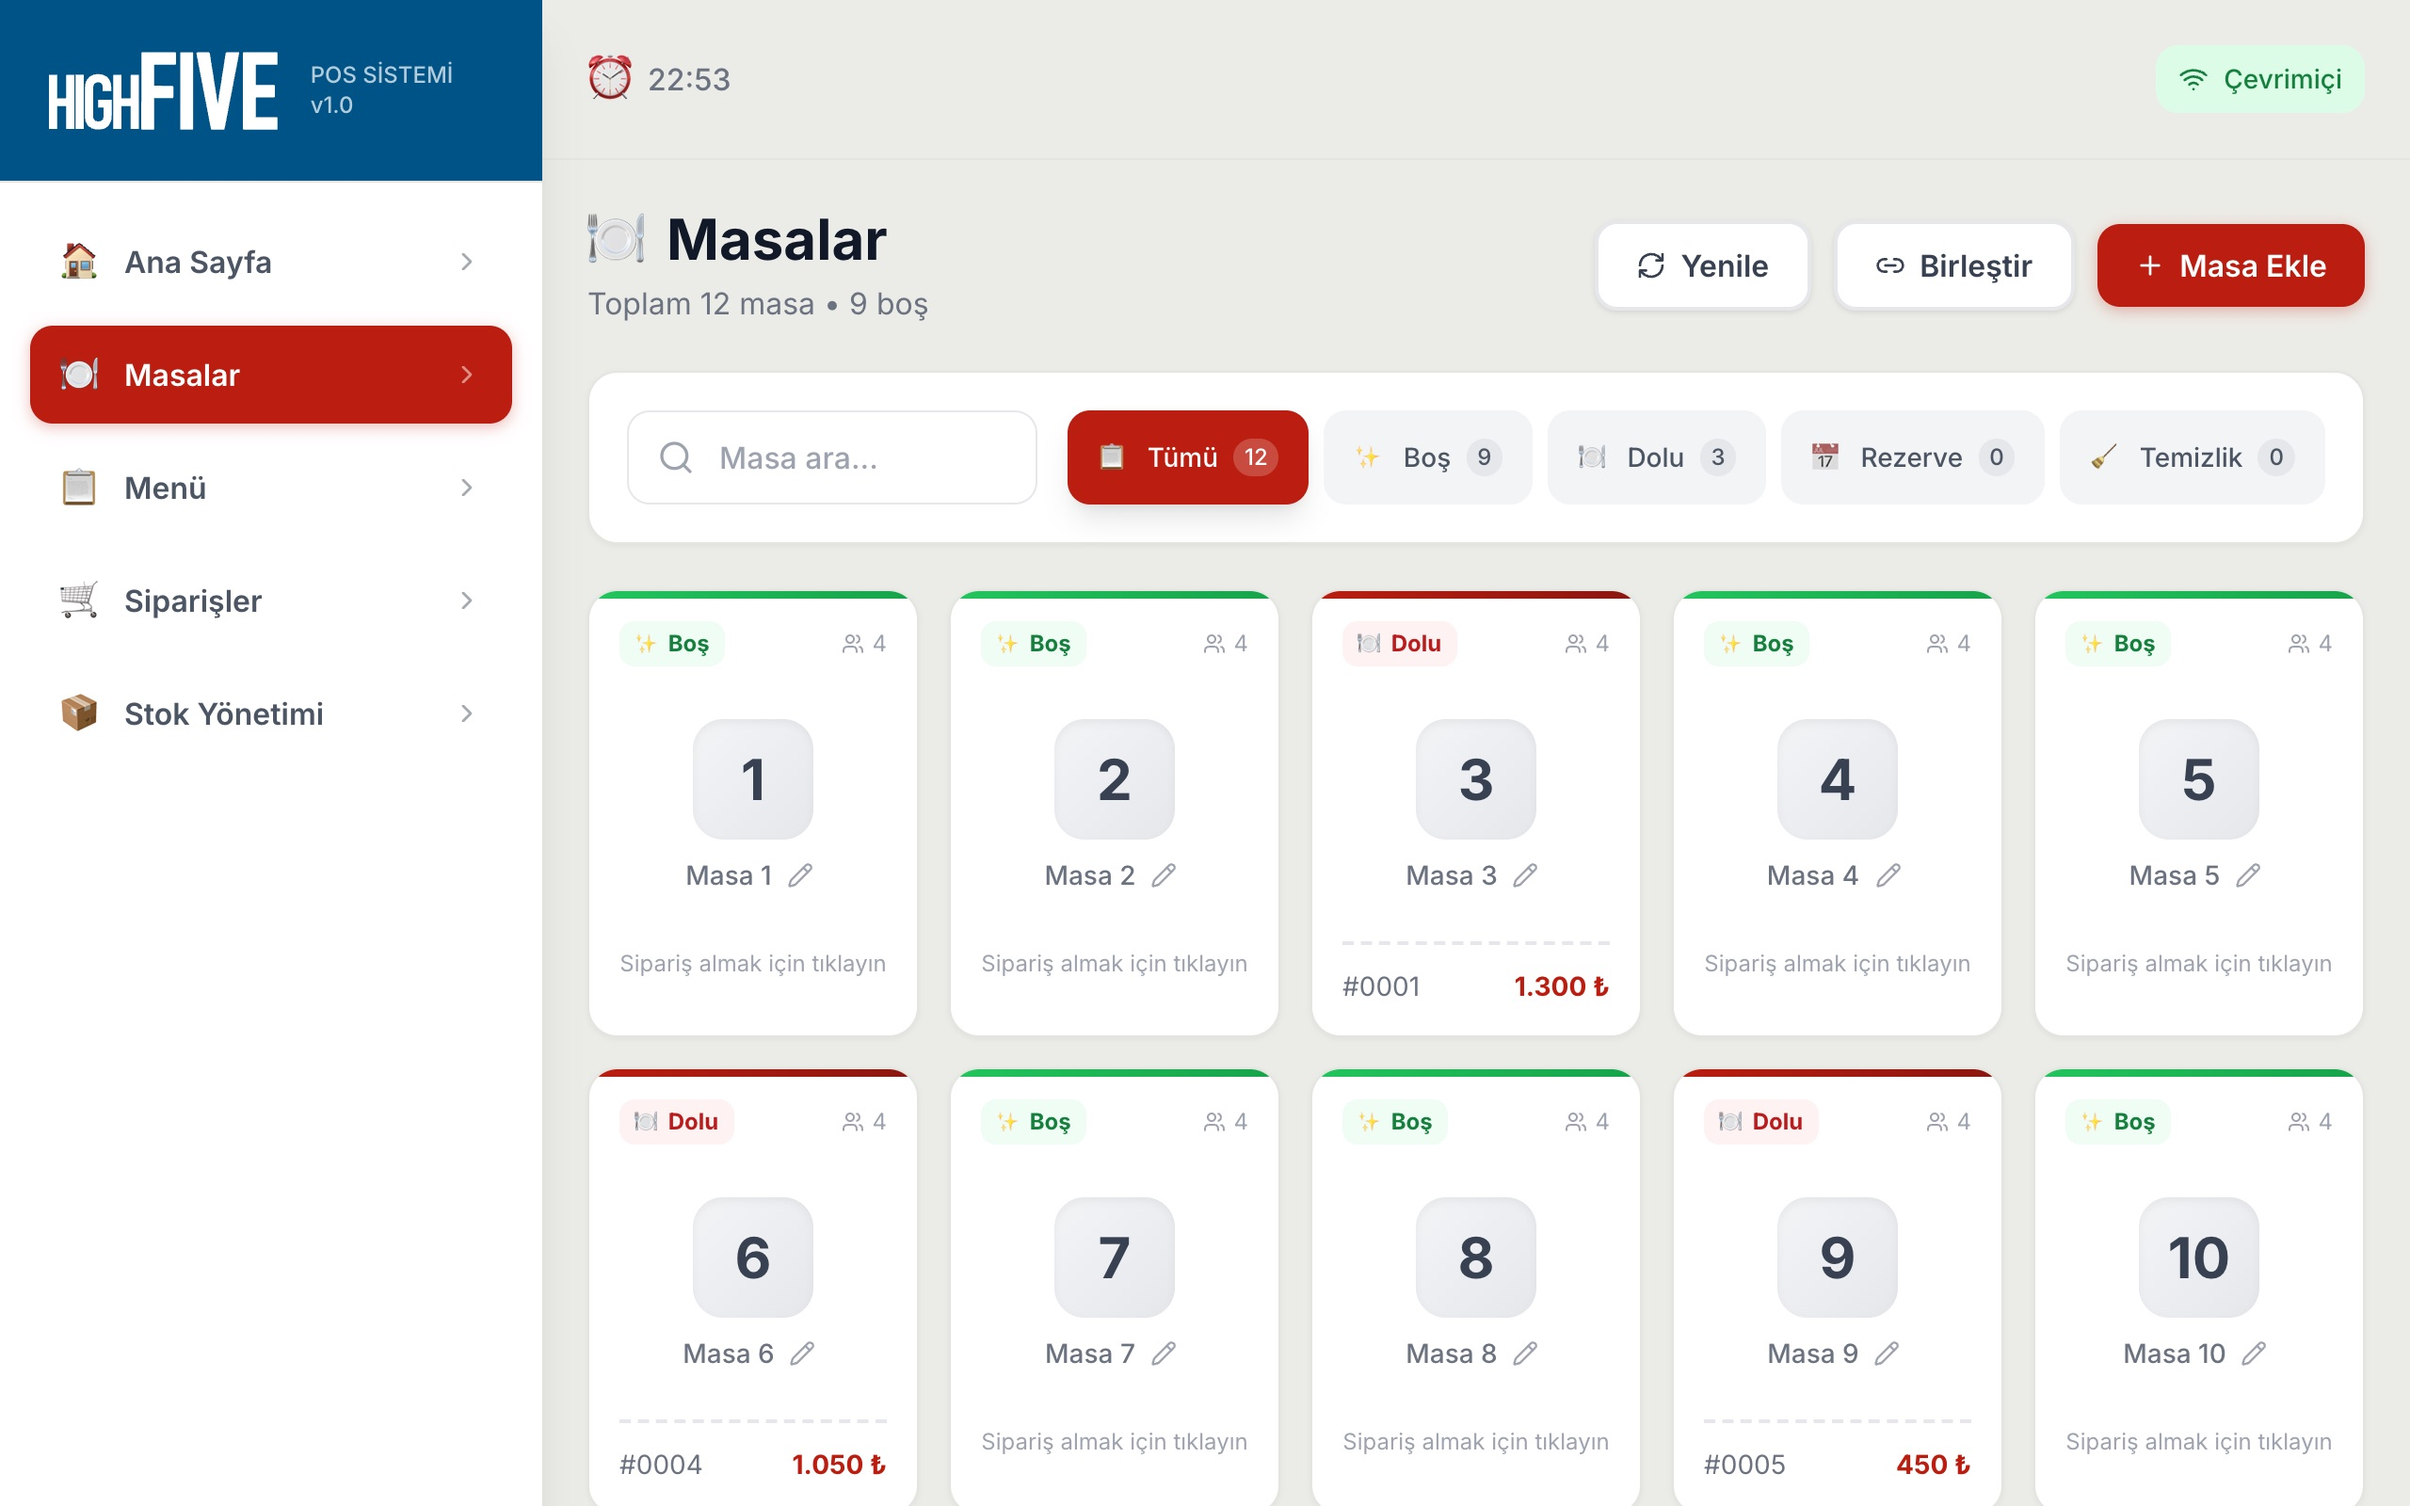
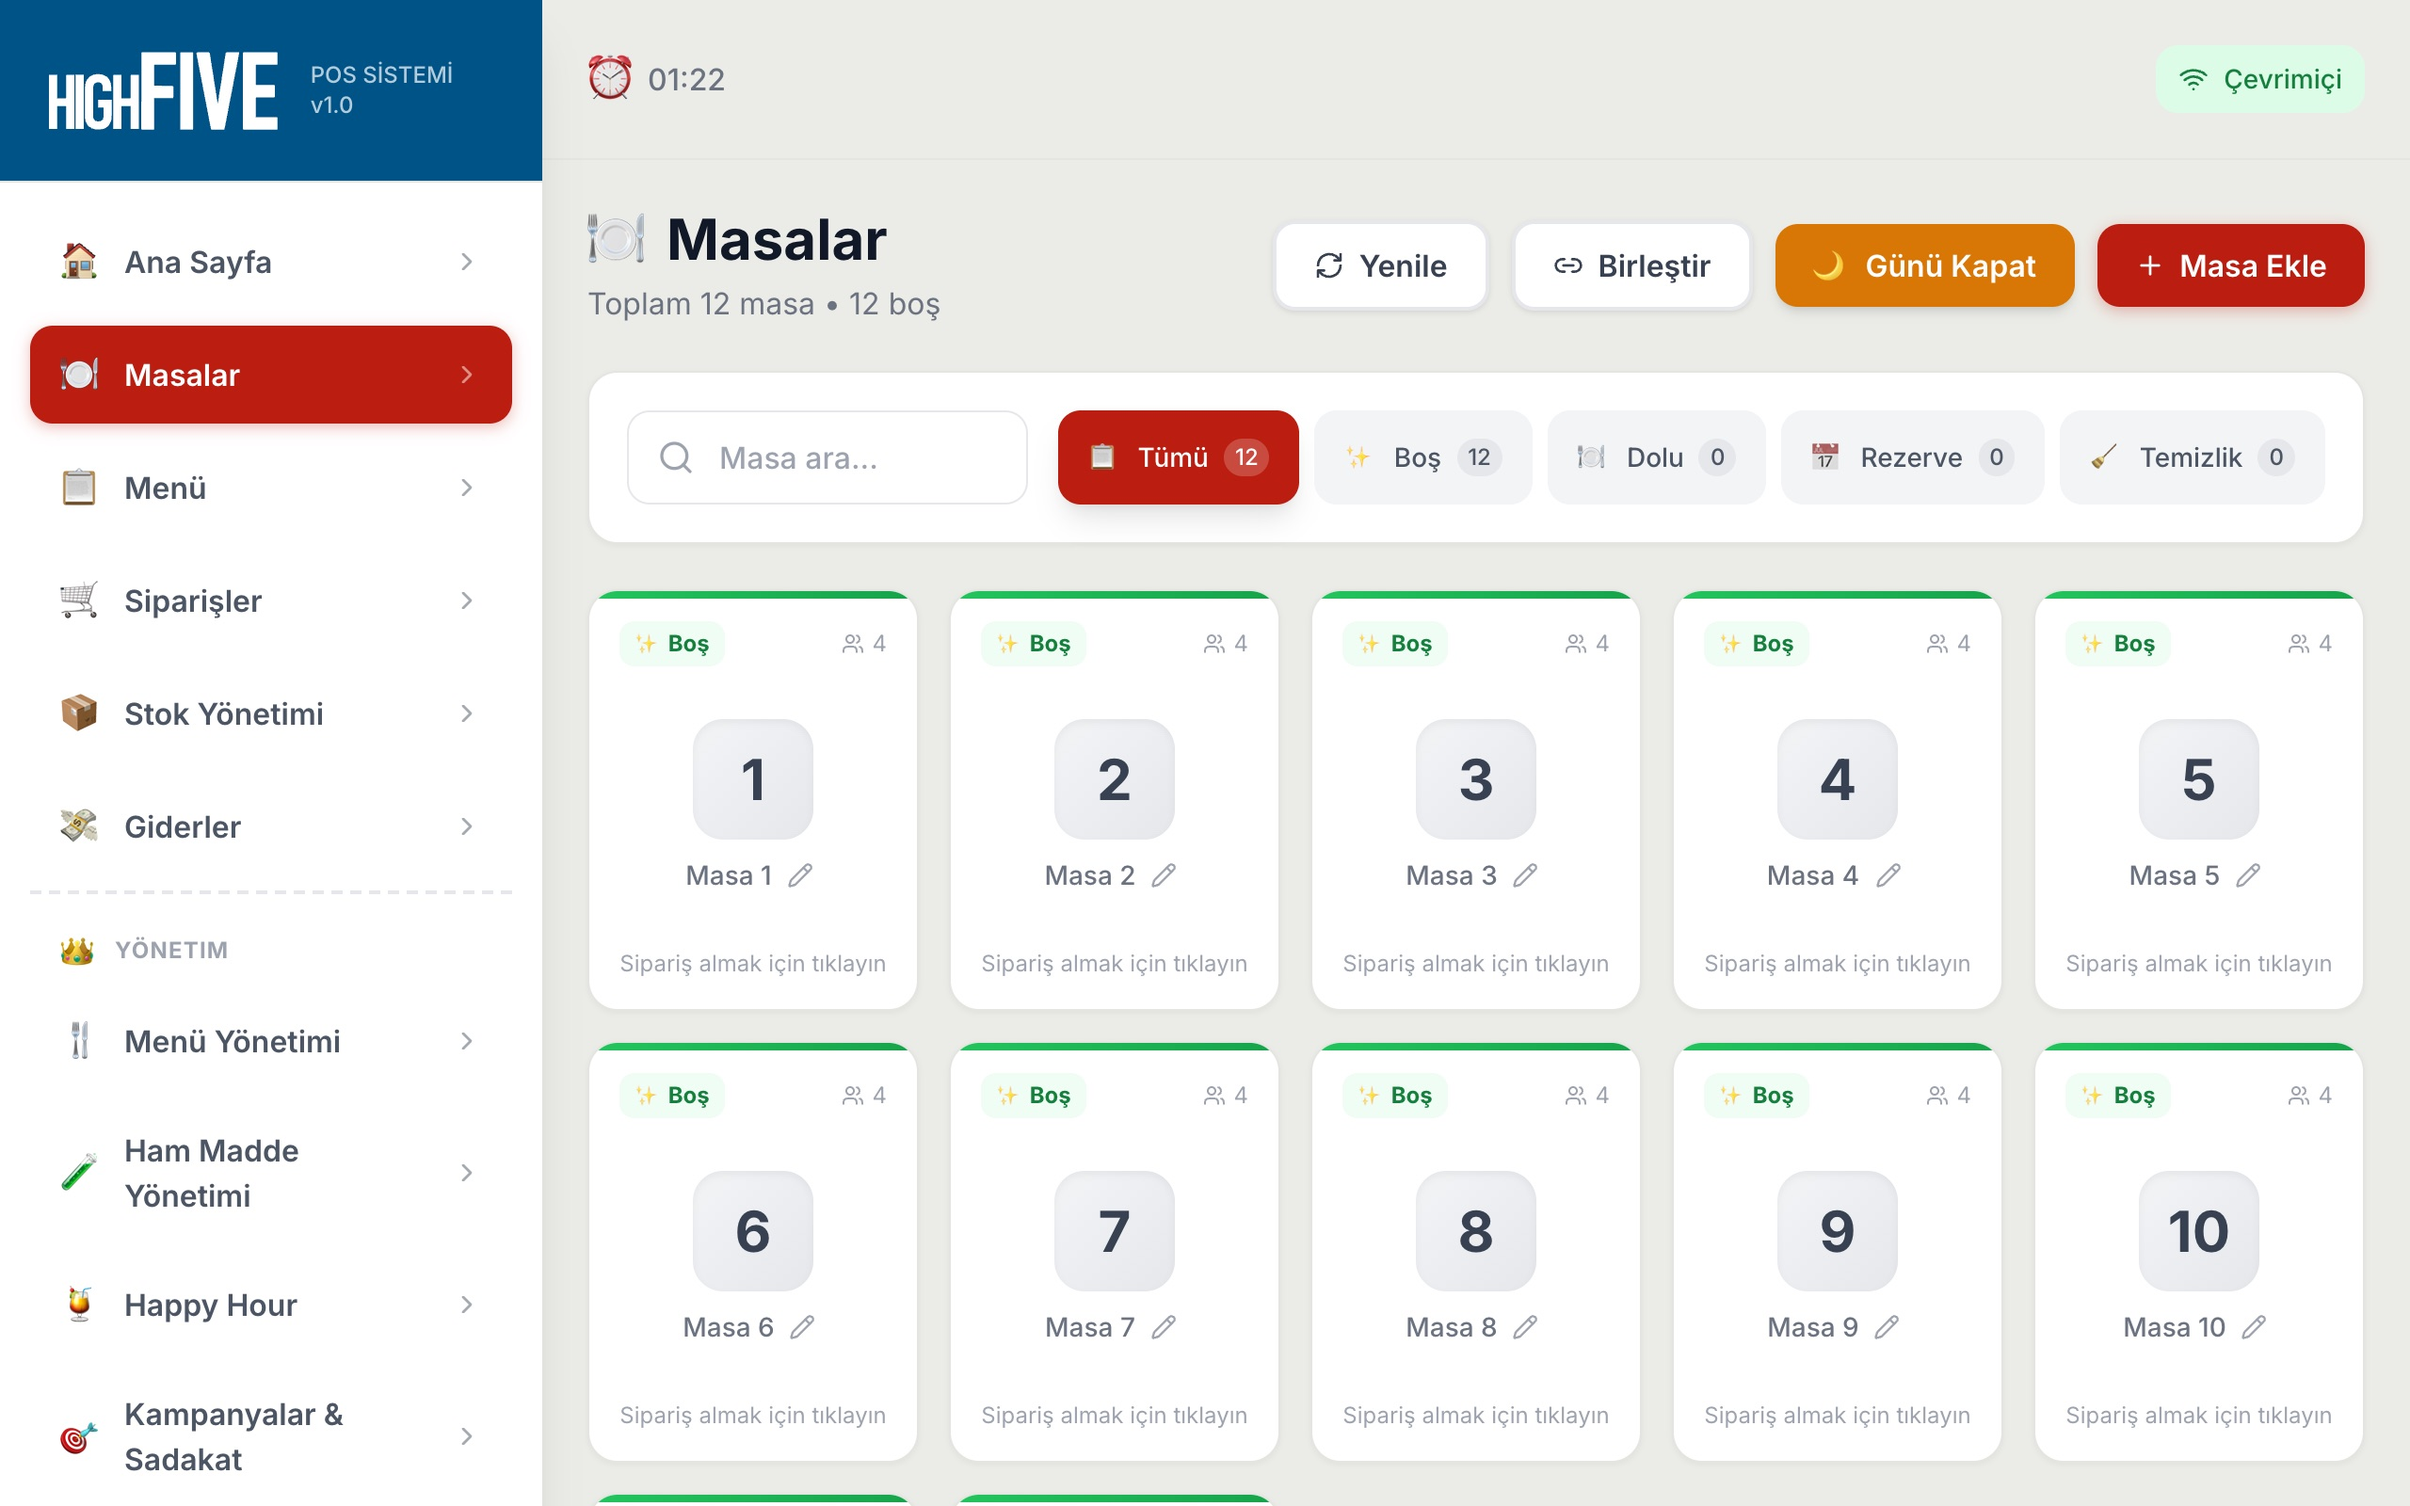
landing: özellik galerisi — sadakat/kampanya/stok/çark/rapor GERÇEK ekranları + Kurumsal markalı app bölümü
- 'Panelin tamamı: maket değil' galerisi: raporlar+kampanyalar (geniş) + sadakat programları+şans çarkı+ham madde stoğu, hepsi canlı POS'tan 2x çekim
- BrandedApp bölümü: Kurumsal paket için markalı mobil uygulama anlatımı + telefon çerçevesi
- POS OWNER düzeltmesi (gerçek Faz-5 açığı): AdminRoute/ExpenseRoute/sidebar/sayfa rol kontrollerine OWNER eklendi — tenant sahibi tüm admin ekranlarını görür
- seed-demo-features.mjs: kampanya/ham madde/sadakat/çark/rapor verisi üreten tekrarlanabilir seed

diff --git a/apps/saas-landing/src/pages/Home.tsx b/apps/saas-landing/src/pages/Home.tsx
@@ -16,11 +16,123 @@ export default function Home() {
       <Hero />
       <Tour />
       <Flow />
+      <Gallery />
       <FeatureMenu />
       <WhatsappBand />
       <Pricing plans={plans} annual={annual} onToggle={() => setAnnual((a) => !a)} />
+      <BrandedApp />
       <FinalCta />
     </>
+  );
+}
+
+/* ============================== GERÇEK EKRAN GALERİSİ ============================== */
+
+const GALLERY: Array<{ img: string; url: string; title: string; desc: string; wide?: boolean }> = [
+  {
+    img: 'pos-reports', url: 'mehmet.otorder.com/reports', wide: true,
+    title: 'Raporlar',
+    desc: 'Günlük ciro, net kâr, ödeme dağılımı ve en çok satanlar; yapay zeka önerisiyle.',
+  },
+  {
+    img: 'pos-campaigns', url: 'mehmet.otorder.com/campaigns', wide: true,
+    title: 'Kampanyalar',
+    desc: 'İndirim, hediye ürün, min. sepet kampanyaları; kullanım limitli ve takipli.',
+  },
+  {
+    img: 'pos-loyalty', url: 'mehmet.otorder.com/loyalty',
+    title: 'Sadakat programları',
+    desc: 'Puan, damga kartı, doğum günü, davet: 12+ hazır program türü.',
+  },
+  {
+    img: 'pos-wheel', url: 'mehmet.otorder.com/spin-wheel',
+    title: 'Şans çarkı',
+    desc: 'Dilimleri ve olasılıkları siz belirlersiniz; müşteri sipariş sonrası çevirir.',
+  },
+  {
+    img: 'pos-stock', url: 'mehmet.otorder.com/stock',
+    title: 'Stok takibi',
+    desc: 'Ham madde bazlı düşüm; kritik seviyede uyarı, tedarikçi ve maliyet kaydı.',
+  },
+];
+
+function Gallery() {
+  return (
+    <section className="border-t border-line bg-wash py-20 lg:py-28">
+      <div className="container-x">
+        <h2 className="reveal max-w-[24ch] text-[clamp(1.75rem,3.5vw,2.6rem)] font-bold leading-tight tracking-[-0.02em] text-ink">
+          Panelin tamamı: bunlar maket değil, üründen alınmış ekranlar.
+        </h2>
+        <div className="mt-12 grid gap-8 lg:grid-cols-6">
+          {GALLERY.map((g) => (
+            <figure key={g.img} className={`reveal ${g.wide ? 'lg:col-span-3' : 'lg:col-span-2'}`}>
+              <div className="overflow-hidden rounded-xl border border-line bg-white shadow-[0_24px_60px_-24px_oklch(0.2_0.01_29/0.25)]">
+                <div className="flex items-center gap-2 border-b border-line bg-white px-3.5 py-2">
+                  <span className="flex gap-1.5" aria-hidden="true">
+                    <i className="h-2 w-2 rounded-full bg-line" />
+                    <i className="h-2 w-2 rounded-full bg-line" />
+                    <i className="h-2 w-2 rounded-full bg-line" />
+                  </span>
+                  <span className="ml-1 flex-1 truncate rounded bg-wash px-2.5 py-0.5 font-mono text-[9px] text-ink-muted ring-1 ring-line">
+                    {g.url}
+                  </span>
+                </div>
+                <img
+                  src={`/media/${g.img}.jpg`}
+                  width={1280}
+                  height={800}
+                  alt={`OtOrder ${g.title} ekranı`}
+                  loading="lazy"
+                  className="block w-full"
+                />
+              </div>
+              <figcaption className="mt-3.5">
+                <p className="font-bold text-ink">{g.title}</p>
+                <p className="mt-0.5 text-sm leading-snug text-ink-muted">{g.desc}</p>
+              </figcaption>
+            </figure>
+          ))}
+        </div>
+      </div>
+    </section>
+  );
+}
+
+/* ============================== MARKALI MOBİL UYGULAMA (KURUMSAL) ============================== */
+
+function BrandedApp() {
+  return (
+    <section className="border-t border-line py-20 lg:py-24">
+      <div className="container-x grid items-center gap-12 lg:grid-cols-[1fr_1.3fr] lg:gap-20">
+        <div className="reveal mx-auto w-full max-w-[250px]">
+          <PhoneMockup />
+        </div>
+        <div className="reveal">
+          <p className="font-mono text-[12px] font-semibold text-brand-700">Kurumsal paket</p>
+          <h2 className="mt-2 text-[clamp(1.75rem,3.5vw,2.6rem)] font-bold leading-tight tracking-[-0.02em] text-ink">
+            Aynı sipariş deneyimi, kendi adınızla App Store ve Google Play'de.
+          </h2>
+          <p className="mt-4 max-w-measure leading-relaxed text-ink-soft">
+            Kurumsal pakette sipariş siteniz, sizin adınızı, ikonunuzu ve renklerinizi taşıyan
+            markalı bir mobil uygulamaya dönüşür. Yayınlamayı biz yürütürüz; puanlar,
+            kampanyalar ve push bildirimleri uygulamada da aynı hesapla çalışır.
+          </p>
+          <ul className="mt-6 space-y-2.5">
+            {['Kendi uygulama adınız ve ikonunuz', 'Push bildirimiyle kampanya duyurusu', 'Sadakat puanları ve çark uygulamada da geçerli'].map((p) => (
+              <li key={p} className="flex items-start gap-2.5 text-[15px] text-ink-soft">
+                <svg viewBox="0 0 16 16" className="mt-1 h-4 w-4 shrink-0 text-brand-600" aria-hidden="true">
+                  <path fill="currentColor" d="M6.5 12.2 2.3 8l1.4-1.4 2.8 2.8 5.8-5.8L13.7 5z" />
+                </svg>
+                {p}
+              </li>
+            ))}
+          </ul>
+          <Link to="/signup?plan=ENTERPRISE" className="btn-primary mt-8">
+            Kurumsal ile başla
+          </Link>
+        </div>
+      </div>
+    </section>
   );
 }
 

diff --git a/apps/pos/src/app/pages/Tables.tsx b/apps/pos/src/app/pages/Tables.tsx
@@ -125,7 +125,7 @@ export default function Tables() {
       // Backend rejects free/clean when there are unpaid orders. Surface
       // the message and offer the admin a force-override.
       const data = error?.data || error?.response?.data;
-      const isAdmin = user?.role === 'ADMIN' || user?.role === 'MANAGER';
+      const isAdmin = user?.role === 'OWNER' || user?.role === 'ADMIN' || user?.role === 'MANAGER';
       const msg = error?.message || data?.error || 'Durum güncellenemedi';
       if (data?.unpaidOrders?.length && isAdmin) {
         const total = data.unpaidTotal ?? 0;
@@ -321,7 +321,7 @@ export default function Tables() {
                 <Link2 className="w-4 h-4" />
                 <span className="hidden sm:inline">Birleştir</span>
               </button>
-              {(user?.role === 'ADMIN' || user?.role === 'MANAGER') && (
+              {(user?.role === 'OWNER' || user?.role === 'ADMIN' || user?.role === 'MANAGER') && (
                 <button
                   onClick={handleEndOfDay}
                   className="btn flex items-center gap-2 bg-amber-600 text-white hover:bg-amber-700"
@@ -557,7 +557,7 @@ export default function Tables() {
               })()}
 
               {/* Admin: Masayı Boşalt */}
-              {table.status === 'OCCUPIED' && !mergeMode && user?.role === 'ADMIN' && (
+              {table.status === 'OCCUPIED' && !mergeMode && (user?.role === 'OWNER' || user?.role === 'ADMIN') && (
                 <button
                   onClick={(e) => {
                     e.stopPropagation();

diff --git a/apps/pos/src/app/app.tsx b/apps/pos/src/app/app.tsx
@@ -60,17 +60,18 @@ function ProtectedRoute({ children }: { children: React.ReactNode }) {
 function AdminRoute({ children }: { children: React.ReactNode }) {
   const { user } = useAuth();
 
-  if (user?.role !== 'ADMIN' && user?.role !== 'MANAGER') {
+  // OWNER: SaaS'ta tenant sahibi — tüm admin yetkilerine sahiptir
+  if (user?.role !== 'OWNER' && user?.role !== 'ADMIN' && user?.role !== 'MANAGER') {
     return <Navigate to="/" replace />;
   }
 
   return <>{children}</>;
 }
 
-// Expense Route wrapper — ADMIN/MANAGER/CASHIER görebilir (admin-only değil)
+// Expense Route wrapper — OWNER/ADMIN/MANAGER/CASHIER görebilir (admin-only değil)
 function ExpenseRoute({ children }: { children: React.ReactNode }) {
   const { user } = useAuth();
-  const allowed = ['ADMIN', 'MANAGER', 'CASHIER'];
+  const allowed = ['OWNER', 'ADMIN', 'MANAGER', 'CASHIER'];
   if (!user || !allowed.includes(user.role)) {
     return <Navigate to="/" replace />;
   }

diff --git a/apps/pos/src/app/components/Layout.tsx b/apps/pos/src/app/components/Layout.tsx
@@ -44,7 +44,8 @@ export default function Layout() {
     try { localStorage.setItem(VOLUME_KEY, String(alertVolume)); } catch { /* ignore */ }
   }, [alertVolume]);
 
-  const isAdmin = user?.role === 'ADMIN' || user?.role === 'MANAGER';
+  // OWNER: SaaS'ta tenant sahibi — admin menüsünün tamamını görür
+  const isAdmin = user?.role === 'OWNER' || user?.role === 'ADMIN' || user?.role === 'MANAGER';
 
   const handleLogout = () => {
     logout();
@@ -52,7 +53,7 @@ export default function Layout() {
   };
 
   // CASHIER de Giderler'i görebilsin diye navItems'a koşullu ekliyoruz (admin-only değil)
-  const canViewExpenses = user?.role === 'ADMIN' || user?.role === 'MANAGER' || user?.role === 'CASHIER';
+  const canViewExpenses = user?.role === 'OWNER' || user?.role === 'ADMIN' || user?.role === 'MANAGER' || user?.role === 'CASHIER';
 
   const navItems = [
     { to: '/', icon: LayoutDashboard, label: 'Ana Sayfa', emoji: '🏠' },

diff --git a/apps/pos/src/app/pages/Dashboard.tsx b/apps/pos/src/app/pages/Dashboard.tsx
@@ -69,7 +69,7 @@ export default function Dashboard() {
   const fetchDashboardData = async () => {
     try {
       // Stats sadece admin için yüklenir
-      if (user?.role === 'ADMIN') {
+      if (user?.role === 'OWNER' || user?.role === 'ADMIN') {
         const reportResponse = await api.get('/api/reports/daily', token!);
         const ordersResponse = await api.get('/api/orders/active', token!);
         const tablesResponse = await api.get('/api/tables', token!);
@@ -177,7 +177,7 @@ export default function Dashboard() {
       </div>
 
       {/* Stats Grid - Sadece Admin */}
-      {user?.role === 'ADMIN' && (
+      {(user?.role === 'OWNER' || user?.role === 'ADMIN') && (
         <div className="grid grid-cols-2 lg:grid-cols-5 gap-4">
           {/* Today Revenue */}
           <div className="stat-card stagger-item">

diff --git a/apps/pos/src/app/pages/Expenses.tsx b/apps/pos/src/app/pages/Expenses.tsx
@@ -90,7 +90,7 @@ const todayISO = () => new Date().toISOString().split('T')[0];
 
 export default function Expenses() {
   const { user, token } = useAuth();
-  const isAdmin = user?.role === 'ADMIN' || user?.role === 'MANAGER';
+  const isAdmin = user?.role === 'OWNER' || user?.role === 'ADMIN' || user?.role === 'MANAGER';
 
   const [expenses, setExpenses] = useState<Expense[]>([]);
   const [categories, setCategories] = useState<ExpenseCategory[]>([]);

diff --git a/apps/pos/src/app/pages/OrderDetail.tsx b/apps/pos/src/app/pages/OrderDetail.tsx
@@ -139,8 +139,8 @@ export default function OrderDetail() {
     }
   };
 
-  const isAdmin = user?.role === 'ADMIN';
-  const canDeleteItems = ['ADMIN', 'CASHIER', 'WAITER'].includes(user?.role || '');
+  const isAdmin = user?.role === 'OWNER' || user?.role === 'ADMIN';
+  const canDeleteItems = ['OWNER', 'ADMIN', 'CASHIER', 'WAITER'].includes(user?.role || '');
 
   const handleStatusChange = async (newStatus: string) => {
     setIsProcessing(true);

diff --git a/apps/pos/src/app/pages/Orders.tsx b/apps/pos/src/app/pages/Orders.tsx
@@ -137,7 +137,7 @@ export default function Orders() {
   const { token, user } = useAuth();
   const { onMessage } = useWebSocket();
 
-  const isAdmin = user?.role === 'ADMIN';
+  const isAdmin = user?.role === 'OWNER' || user?.role === 'ADMIN';
 
   const [orders, setOrders] = useState<Order[]>([]);
   const [isLoading, setIsLoading] = useState(true);
